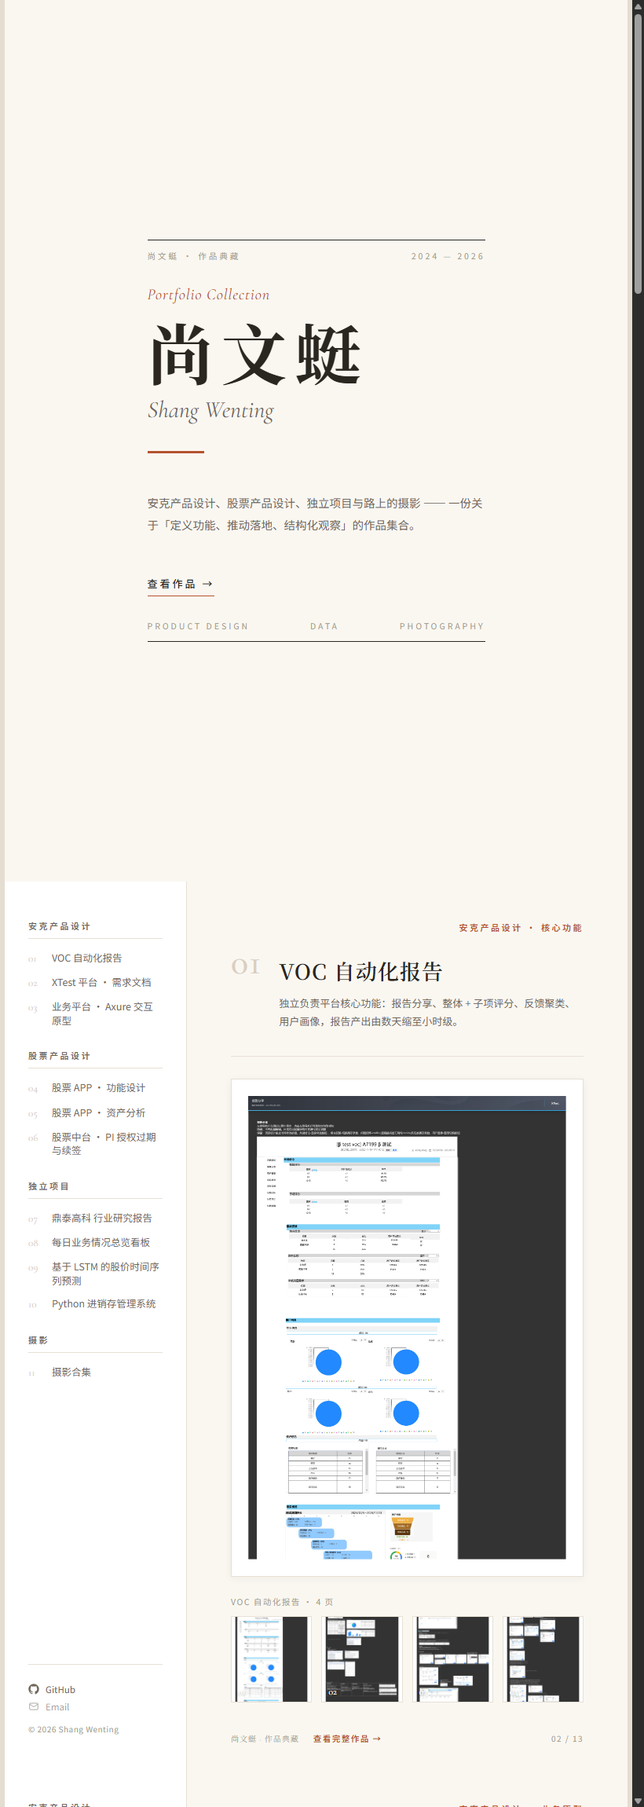
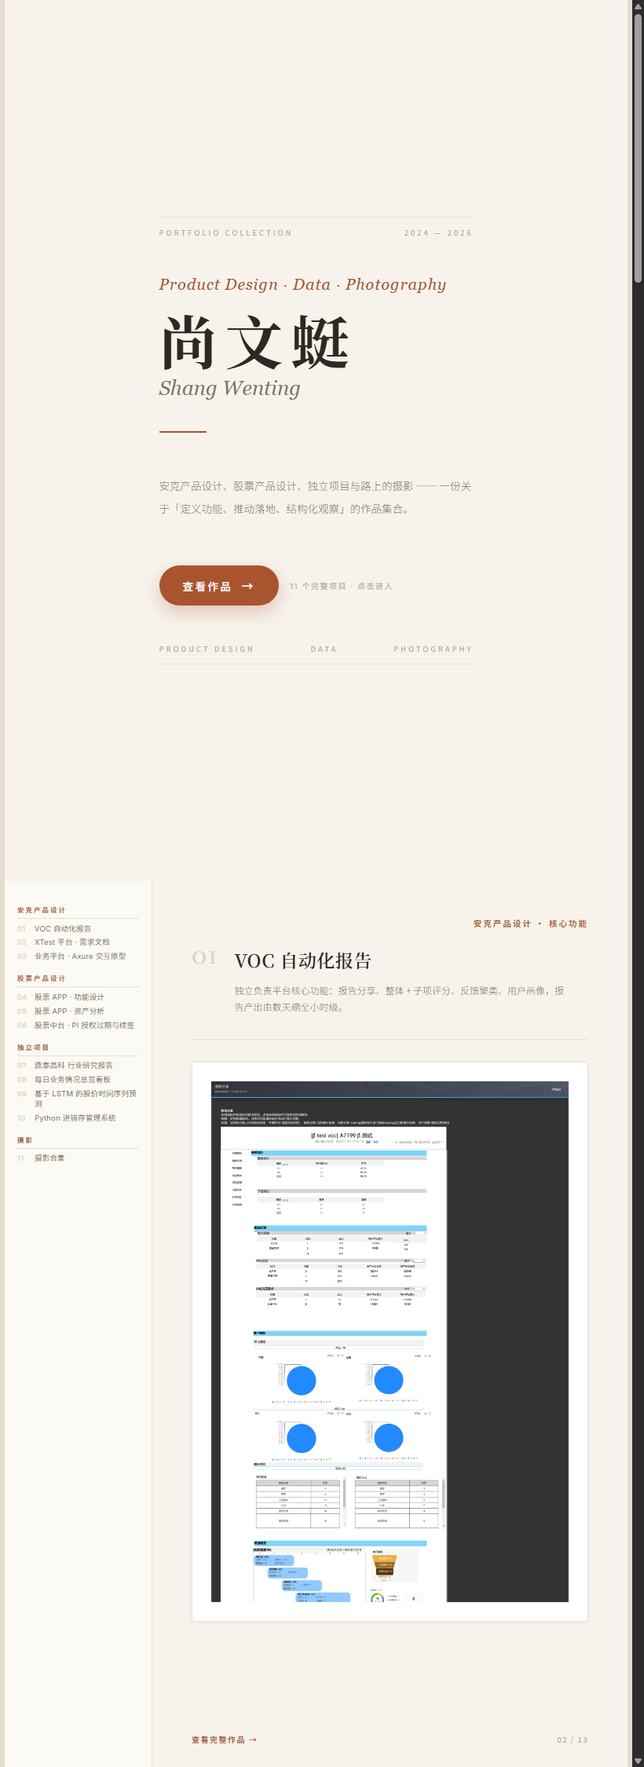
design: 导航字体换 Inter 无衬线、移除社交图标、封面舒展开并突出 CTA 胶囊按钮

diff --git a/_collection.html b/_collection.html
@@ -3,22 +3,23 @@
 <head>
 <meta charset="UTF-8" />
 <meta name="viewport" content="width=device-width, initial-scale=1.0" />
-<title>尚文蜓 · 作品典藏 | Portfolio Collection</title>
+<title>尚文蜓 · Portfolio Collection</title>
 <link rel="preconnect" href="https://fonts.googleapis.com" />
 <link rel="preconnect" href="https://fonts.gstatic.com" crossorigin />
-<link href="https://fonts.googleapis.com/css2?family=Cormorant+Garamond:ital,wght@0,400;0,500;0,600;1,400;1,500&family=Noto+Sans+SC:wght@300;400;500;600&family=Noto+Serif+SC:wght@400;500;600;700&display=swap" rel="stylesheet" />
+<link href="https://fonts.googleapis.com/css2?family=Cormorant+Garamond:ital,wght@0,400;0,500;0,600;1,400;1,500&family=Inter:wght@300;400;500;600&family=Noto+Sans+SC:wght@300;400;500;600&family=Noto+Serif+SC:wght@400;500;600;700&display=swap" rel="stylesheet" />
 <style>
   :root{
-    --paper:#faf7f1;
-    --paper-2:#ffffff;
-    --ink:#2a2620;
-    --ink-soft:#6f685c;
-    --ink-faint:#a89e8e;
-    --line:#e7e0d4;
-    --brand:#b5532e;
-    --faint:#d9cfbf;
+    --paper:#f7f3ec;
+    --paper-2:#fcfaf5;
+    --ink:#2c2823;
+    --ink-soft:#7c7567;
+    --ink-faint:#b0a694;
+    --line:#e7dfd1;
+    --brand:#a8542f;
+    --faint:#ddd3c2;
     --serif:"Noto Serif SC",Georgia,serif;
     --sans:"Noto Sans SC",system-ui,sans-serif;
+    --nav-sans:"Inter","Noto Sans SC",system-ui,sans-serif;
     --latin:"Cormorant Garamond",Georgia,serif;
   }
   *{box-sizing:border-box;}
@@ -36,97 +37,88 @@
   .page:last-child{ page-break-after:auto; }
   .page--cover{ align-items:center; justify-content:center; }
 
-  /* ---------- light sidebar ---------- */
+  /* ---------- light sidebar (narrow, refined) ---------- */
   .sidebar{
-    flex:0 0 232px; width:232px;
+    flex:0 0 188px; width:188px;
     background:var(--paper-2); color:var(--ink);
     border-right:1px solid var(--line);
-    padding:48px 30px 36px;
+    padding:30px 16px 18px;
     display:flex; flex-direction:column;
   }
-  .sidebar__brand{ margin-bottom:36px; }
-  .sidebar__logo{ font-family:var(--serif); font-size:25px; font-weight:600; letter-spacing:4px; color:var(--ink); }
-  .sidebar__role{ font-family:var(--latin); font-size:17px; font-style:italic; color:var(--brand); margin-top:6px; letter-spacing:.5px; }
-  .sidebar__subtitle{ font-size:10.5px; color:var(--ink-faint); margin-top:8px; letter-spacing:2px; }
-
   .sidebar__nav{ flex:1; }
-  .nav-group{ margin-bottom:22px; }
+  .nav-group{ margin-bottom:12px; }
   .nav-group__title{
-    font-size:11px; font-weight:600; letter-spacing:2.5px;
-    color:var(--ink-soft); padding-bottom:8px; margin-bottom:9px;
+    font-family:var(--nav-sans); font-size:8.5px; font-weight:600; letter-spacing:2px;
+    text-transform:uppercase; color:var(--brand); padding-bottom:5px; margin-bottom:4px;
     border-bottom:1px solid var(--line);
   }
   .nav-group__list{ list-style:none; margin:0; padding:0; }
   .nav-link{
-    display:flex; align-items:baseline; gap:10px;
-    padding:6px 0; text-decoration:none; color:var(--ink-soft);
-    font-size:12.5px; line-height:1.4; transition:color .2s;
+    display:flex; align-items:baseline; gap:7px;
+    padding:2.5px 0; text-decoration:none; color:var(--ink-soft);
+    font-family:var(--nav-sans); font-size:9.5px; font-weight:400; line-height:1.35; letter-spacing:.2px;
+    transition:color .2s, transform .2s;
   }
-  .nav-link:hover{ color:var(--brand); }
-  .nav-link__num{ font-family:var(--latin); font-size:13px; color:var(--faint); min-width:20px; }
-
-  .sidebar__footer{ margin-top:24px; padding-top:20px; border-top:1px solid var(--line); }
-  .sidebar__social{ display:flex; align-items:center; gap:8px; color:var(--ink-soft); font-size:11.5px; text-decoration:none; padding:3px 0; }
-  .sidebar__social:hover{ color:var(--brand); }
-  .sidebar__social.is-muted{ opacity:.6; }
-  .sidebar__copy{ font-size:10px; color:var(--ink-faint); margin-top:10px; letter-spacing:.5px; }
+  .nav-link:hover{ color:var(--brand); transform:translateX(2px); }
+  .nav-link__num{ font-family:var(--nav-sans); font-size:9px; color:var(--faint); min-width:15px; font-weight:500; letter-spacing:.5px; }
 
   /* ---------- content ---------- */
-  .content{ flex:1; padding:50px 56px 66px; position:relative; display:flex; flex-direction:column; }
+  .content{ flex:1; padding:46px 50px 60px; position:relative; display:flex; flex-direction:column; }
   .content__top{
-    display:flex; align-items:flex-start; gap:22px;
-    border-bottom:1px solid var(--line); padding-bottom:20px; margin-top:34px; margin-bottom:24px;
+    display:flex; align-items:flex-start; gap:20px;
+    border-bottom:1px solid var(--line); padding-bottom:18px; margin-top:30px; margin-bottom:26px;
   }
-  .content__topnum{ font-family:var(--latin); font-size:46px; font-weight:500; color:var(--faint); line-height:.8; letter-spacing:1px; }
-  .content__head{ flex:1; padding-top:4px; }
-  .work__tag{ position:absolute; top:50px; right:56px; text-align:right; font-size:11px; letter-spacing:2.5px; color:var(--brand); font-weight:600; }
-  .work__title{ font-family:var(--serif); font-size:27px; font-weight:600; margin:9px 0 9px; color:var(--ink); line-height:1.25; letter-spacing:1px; }
-  .work__sub{ font-size:13px; color:var(--ink-soft); line-height:1.75; max-width:430px; }
+  .content__topnum{ font-family:var(--latin); font-size:40px; font-weight:500; color:var(--faint); line-height:.8; letter-spacing:1px; }
+  .content__head{ flex:1; padding-top:2px; }
+  .work__tag{ position:absolute; top:46px; right:50px; text-align:right; font-size:10.5px; letter-spacing:2px; color:var(--brand); font-weight:600; }
+  .work__title{ font-family:var(--serif); font-size:23px; font-weight:600; margin:8px 0 8px; color:var(--ink); line-height:1.3; letter-spacing:.5px; }
+  .work__sub{ font-size:12px; color:var(--ink-soft); line-height:1.8; max-width:420px; font-weight:300; }
 
-  .work__hero{ margin:4px 0 0; border:1px solid var(--line); background:var(--paper-2); overflow:hidden; box-shadow:0 2px 10px rgba(42,38,32,.05); }
+  .work__hero{ margin:2px 0 0; border:1px solid var(--line); background:var(--paper-2); overflow:hidden; box-shadow:0 1px 8px rgba(44,40,35,.05); }
   .work__hero img{ display:block; width:100%; height:auto; }
 
-  .page-strip{ margin-top:24px; }
-  .page-strip__label{ font-size:10.5px; letter-spacing:1.5px; color:var(--ink-faint); margin-bottom:11px; }
-  .page-strip__grid{ display:grid; grid-template-columns:repeat(4,1fr); gap:12px; }
-  .page-strip__item{ position:relative; border:1px solid var(--line); background:var(--paper-2); overflow:hidden; }
-  .page-strip__item img{ display:block; width:100%; height:108px; object-fit:cover; }
-  .page-strip__item .ps-num{ position:absolute; left:8px; bottom:6px; font-family:var(--latin); font-size:12px; color:#fff; text-shadow:0 1px 3px rgba(0,0,0,.5); }
-
   /* ---------- photography ---------- */
-  .photo-topnum{ font-family:var(--latin); font-size:46px; font-weight:500; color:var(--faint); line-height:.8; }
-  .photo-title{ font-family:var(--serif); font-size:27px; font-weight:600; margin:9px 0 9px; letter-spacing:1px; }
-  .photo-caption{ font-size:14px; color:var(--ink-soft); line-height:1.8; max-width:450px; margin-bottom:22px; }
-  .photo-feature{ border:1px solid var(--line); overflow:hidden; margin-bottom:18px; background:var(--paper-2); box-shadow:0 2px 10px rgba(42,38,32,.05); }
-  .photo-feature img{ display:block; width:100%; height:438px; object-fit:cover; }
+  .photo-topnum{ font-family:var(--latin); font-size:40px; font-weight:500; color:var(--faint); line-height:.8; }
+  .photo-title{ font-family:var(--serif); font-size:23px; font-weight:600; margin:8px 0 8px; letter-spacing:.5px; }
+  .photo-caption{ font-size:12.5px; color:var(--ink-soft); line-height:1.85; max-width:440px; margin-bottom:22px; font-weight:300; }
+  .photo-feature{ border:1px solid var(--line); overflow:hidden; margin-bottom:16px; background:var(--paper-2); box-shadow:0 1px 8px rgba(44,40,35,.05); }
+  .photo-feature img{ display:block; width:100%; height:400px; object-fit:cover; }
   .photo-grid{ display:grid; grid-template-columns:repeat(3,1fr); gap:12px; }
   .photo-grid figure{ margin:0; border:1px solid var(--line); overflow:hidden; background:var(--paper-2); }
-  .photo-grid img{ display:block; width:100%; height:124px; object-fit:cover; }
-  .photo-grid figcaption{ font-size:10px; color:var(--ink-faint); padding:7px 9px; letter-spacing:.5px; }
+  .photo-grid img{ display:block; width:100%; height:118px; object-fit:cover; }
+  .photo-grid figcaption{ font-size:9.5px; color:var(--ink-faint); padding:6px 8px; letter-spacing:.4px; }
 
   /* ---------- cover (editorial) ---------- */
-  .cover{ padding:64px 70px; display:flex; flex-direction:column; justify-content:space-between; align-items:stretch; text-align:left; }
-  .cover__toprule{ display:flex; justify-content:space-between; align-items:center; font-size:10.5px; letter-spacing:3px; color:var(--ink-faint); border-top:1px solid var(--ink); padding-top:12px; }
-  .cover__mid{ flex:1; display:flex; flex-direction:column; justify-content:center; padding:30px 0; }
+  .cover{ padding:72px 68px; display:flex; flex-direction:column; justify-content:space-between; align-items:stretch; text-align:left; }
+  .cover__toprule{ display:flex; justify-content:space-between; align-items:center; font-size:9.5px; letter-spacing:3px; color:var(--ink-faint); border-top:1px solid var(--line); padding-top:12px; }
+  .cover__mid{ flex:1; display:flex; flex-direction:column; justify-content:center; padding:48px 0; }
   .cover__eyebrow{ font-family:var(--latin); font-style:italic; font-size:20px; color:var(--brand); letter-spacing:1px; }
-  .cover__title{ font-family:var(--serif); font-size:84px; font-weight:700; margin:18px 0 14px; letter-spacing:10px; line-height:1; }
-  .cover__title-en{ font-family:var(--latin); font-size:30px; font-style:italic; color:var(--ink-soft); }
-  .cover__rule{ width:72px; height:3px; background:var(--brand); margin:34px 0; }
-  .cover__lead{ font-size:14.5px; color:var(--ink-soft); line-height:1.95; max-width:430px; text-wrap:pretty; }
-  .cover__link{ display:inline-flex; align-items:center; gap:10px; margin-top:36px; font-size:13px; letter-spacing:3px; color:var(--ink); text-decoration:none; font-weight:500; border-bottom:1.5px solid var(--brand); padding-bottom:6px; width:fit-content; }
-  .cover__link:hover{ color:var(--brand); }
-  .cover__botrule{ display:flex; justify-content:space-between; align-items:center; font-size:10.5px; letter-spacing:3px; color:var(--ink-faint); border-bottom:1px solid var(--ink); padding-bottom:12px; }
+  .cover__title{ font-family:var(--serif); font-size:74px; font-weight:700; margin:22px 0 10px; letter-spacing:10px; line-height:1; }
+  .cover__title-en{ font-family:var(--latin); font-size:26px; font-style:italic; color:var(--ink-soft); }
+  .cover__rule{ width:60px; height:2px; background:var(--brand); margin:40px 0; }
+  .cover__lead{ font-size:13.5px; color:var(--ink-soft); line-height:2.1; max-width:400px; font-weight:300; text-wrap:pretty; }
+  .cover__cta{ display:flex; align-items:center; gap:14px; margin-top:46px; }
+  .cover__link{
+    display:inline-flex; align-items:center; gap:11px;
+    font-family:var(--nav-sans); font-size:13.5px; letter-spacing:2.5px; color:#fff;
+    background:var(--brand); text-decoration:none; font-weight:500;
+    padding:15px 30px; border-radius:40px; width:fit-content;
+    box-shadow:0 8px 22px rgba(168,84,47,.30); transition:transform .22s ease, box-shadow .22s ease, background .22s ease;
+  }
+  .cover__link:hover{ background:#934526; transform:translateY(-2px); box-shadow:0 12px 28px rgba(168,84,47,.40); }
+  .cover__link .arrow{ transition:transform .22s ease; font-size:15px; }
+  .cover__link:hover .arrow{ transform:translateX(5px); }
+  .cover__hint{ font-family:var(--nav-sans); font-size:10px; letter-spacing:1.5px; color:var(--ink-faint); }
+  .cover__botrule{ display:flex; justify-content:space-between; align-items:center; font-size:9.5px; letter-spacing:3px; color:var(--ink-faint); border-bottom:1px solid var(--line); padding-bottom:12px; }
 
   /* ---------- footer ---------- */
   .page__footer{
-    position:absolute; left:0; right:0; bottom:24px;
+    position:absolute; left:0; right:0; bottom:22px;
     display:flex; align-items:center; justify-content:space-between;
-    padding:0 56px;
-    font-size:10px; color:var(--ink-faint); letter-spacing:1.5px;
+    padding:0 50px;
+    font-size:9.5px; color:var(--ink-faint); letter-spacing:1.5px;
   }
-  .page__footer .pf-left{ display:flex; align-items:center; gap:18px; }
-  .page__footer .pf-name{ font-family:var(--latin); letter-spacing:1px; }
-  .page__footer .pf-link{ color:var(--brand); text-decoration:none; font-size:10.5px; letter-spacing:1.5px; font-weight:600; }
+  .page__footer .pf-link{ color:var(--brand); text-decoration:none; font-size:10px; letter-spacing:1.5px; font-weight:600; }
   .page__footer .pf-link:hover{ text-decoration:underline; }
 </style>
 </head>
@@ -168,17 +160,6 @@
         </ul>
       </div>
     </nav>
-    <div class="sidebar__footer">
-      <a class="sidebar__social" href="https://github.com/trinitytingchuan-alt" target="_blank" rel="noopener">
-        <svg width="14" height="14" viewBox="0 0 24 24" fill="currentColor"><path d="M12 .5C5.65.5.5 5.65.5 12c0 5.08 3.29 9.39 7.86 10.91.58.1.79-.25.79-.56v-2.04c-3.2.69-3.87-1.36-3.87-1.36-.52-1.33-1.27-1.68-1.27-1.68-1.04-.71.08-.7.08-.7 1.15.08 1.76 1.18 1.76 1.18 1.02 1.75 2.68 1.24 3.34.95.1-.74.4-1.24.73-1.53-2.55-.29-5.23-1.27-5.23-5.66 0-1.25.45-2.27 1.18-3.07-.12-.29-.51-1.46.11-3.05 0 0 .96-.31 3.15 1.17.91-.25 1.89-.38 2.86-.39.97.01 1.95.14 2.86.39 2.18-1.48 3.14-1.17 3.14-1.17.62 1.59.23 2.76.11 3.05.73.8 1.18 1.82 1.18 3.07 0 4.4-2.69 5.36-5.25 5.65.41.36.78 1.07.78 2.16v3.2c0 .31.21.67.8.55C20.21 21.39 23.5 17.07 23.5 12 23.5 5.65 18.35.5 12 .5z"/></svg>
-        GitHub
-      </a>
-      <span class="sidebar__social is-muted">
-        <svg width="14" height="14" viewBox="0 0 24 24" fill="none" stroke="currentColor" stroke-width="1.6"><rect x="3" y="5" width="18" height="14" rx="1.5"/><path d="m3 7 9 6 9-6"/></svg>
-        Email
-      </span>
-      <div class="sidebar__copy">© 2026 Shang Wenting</div>
-    </div>
   </div>
 </div>
 
@@ -187,14 +168,17 @@
   <!-- = our cover goes in a full page -->
   <section class="page page--cover">
     <div class="cover">
-      <div class="cover__toprule"><span>尚文蜓 · 作品典藏</span><span>2024 — 2026</span></div>
+      <div class="cover__toprule"><span>PORTFOLIO COLLECTION</span><span>2024 — 2026</span></div>
       <div class="cover__mid">
-        <div class="cover__eyebrow">Portfolio Collection</div>
+        <div class="cover__eyebrow">Product Design · Data · Photography</div>
         <div class="cover__title">尚文蜓</div>
         <div class="cover__title-en">Shang Wenting</div>
         <div class="cover__rule"></div>
         <p class="cover__lead">安克产品设计、股票产品设计、独立项目与路上的摄影 —— 一份关于「定义功能、推动落地、结构化观察」的作品集合。</p>
-        <a class="cover__link" href="#p-voc">查看作品 →</a>
+        <div class="cover__cta">
+          <a class="cover__link" href="#p-voc">查看作品 <span class="arrow">→</span></a>
+          <span class="cover__hint">11 个完整项目 · 点击进入</span>
+        </div>
       </div>
       <div class="cover__botrule"><span>PRODUCT DESIGN</span><span>DATA</span><span>PHOTOGRAPHY</span></div>
     </div>
@@ -212,16 +196,7 @@
         </div>
       </div>
       <figure class="work__hero"><img src="assets/pdf_hi/voc_p1.png" alt="VOC 自动化报告" /></figure>
-      <div class="page-strip">
-        <div class="page-strip__label">VOC 自动化报告 · 4 页</div>
-        <div class="page-strip__grid">
-          <div class="page-strip__item"><img src="assets/pdf_hi/voc_p1.png" alt="v1" /><span class="ps-num">01</span></div>
-          <div class="page-strip__item"><img src="assets/pdf_hi/voc_p2.png" alt="v2" /><span class="ps-num">02</span></div>
-          <div class="page-strip__item"><img src="assets/pdf_hi/voc_p3.png" alt="v3" /><span class="ps-num">03</span></div>
-          <div class="page-strip__item"><img src="assets/pdf_hi/voc_p4.png" alt="v4" /><span class="ps-num">04</span></div>
-        </div>
-      </div>
-      <div class="page__footer"><span class="pf-left"><span class="pf-name">尚文蜓 · 作品典藏</span><a class="pf-link" href="https://github.com/trinitytingchuan-alt" target="_blank" rel="noopener">查看完整作品 →</a></span><span class="pg">02 / 13</span></div>
+      <div class="page__footer"><a class="pf-link" href="https://github.com/trinitytingchuan-alt" target="_blank" rel="noopener">查看完整作品 →</a><span class="pg">02 / 13</span></div>
     </div>
   </section>
 
@@ -237,14 +212,7 @@
         </div>
       </div>
       <figure class="work__hero"><img src="assets/pdf_hi/ankerx_p1.png" alt="XTest 需求文档" /></figure>
-      <div class="page-strip">
-        <div class="page-strip__label">需求文档 · 2 页</div>
-        <div class="page-strip__grid">
-          <div class="page-strip__item"><img src="assets/pdf_hi/ankerx_p1.png" alt="x1" /><span class="ps-num">01</span></div>
-          <div class="page-strip__item"><img src="assets/pdf_hi/ankerx_p2.png" alt="x2" /><span class="ps-num">02</span></div>
-        </div>
-      </div>
-      <div class="page__footer"><span class="pf-left"><span class="pf-name">尚文蜓 · 作品典藏</span><a class="pf-link" href="https://github.com/trinitytingchuan-alt" target="_blank" rel="noopener">查看完整作品 →</a></span><span class="pg">03 / 13</span></div>
+      <div class="page__footer"><a class="pf-link" href="https://github.com/trinitytingchuan-alt" target="_blank" rel="noopener">查看完整作品 →</a><span class="pg">03 / 13</span></div>
     </div>
   </section>
 
@@ -260,14 +228,7 @@
         </div>
       </div>
       <figure class="work__hero"><img src="assets/docx_images/wk_018.png" alt="Axure 设备寄送流程原型" /></figure>
-      <div class="page-strip">
-        <div class="page-strip__label">Axure 原型 · 关键页面</div>
-        <div class="page-strip__grid">
-          <div class="page-strip__item"><img src="assets/docx_images/wk_018.png" alt="a1" /><span class="ps-num">01</span></div>
-          <div class="page-strip__item"><img src="assets/docx_images/wk_017.png" alt="a2" /><span class="ps-num">02</span></div>
-        </div>
-      </div>
-      <div class="page__footer"><span class="pf-left"><span class="pf-name">尚文蜓 · 作品典藏</span><a class="pf-link" href="https://github.com/trinitytingchuan-alt" target="_blank" rel="noopener">查看完整作品 →</a></span><span class="pg">04 / 13</span></div>
+      <div class="page__footer"><a class="pf-link" href="https://github.com/trinitytingchuan-alt" target="_blank" rel="noopener">查看完整作品 →</a><span class="pg">04 / 13</span></div>
     </div>
   </section>
 
@@ -283,15 +244,7 @@
         </div>
       </div>
       <figure class="work__hero"><img src="assets/pdf_hi/light_p1.png" alt="股票 APP 功能设计" /></figure>
-      <div class="page-strip">
-        <div class="page-strip__label">功能设计稿 · 3 页</div>
-        <div class="page-strip__grid">
-          <div class="page-strip__item"><img src="assets/pdf_hi/light_p1.png" alt="l1" /><span class="ps-num">01</span></div>
-          <div class="page-strip__item"><img src="assets/pdf_hi/light_p2.png" alt="l2" /><span class="ps-num">02</span></div>
-          <div class="page-strip__item"><img src="assets/pdf_hi/light_p3.png" alt="l3" /><span class="ps-num">03</span></div>
-        </div>
-      </div>
-      <div class="page__footer"><span class="pf-left"><span class="pf-name">尚文蜓 · 作品典藏</span><a class="pf-link" href="https://github.com/trinitytingchuan-alt" target="_blank" rel="noopener">查看完整作品 →</a></span><span class="pg">05 / 13</span></div>
+      <div class="page__footer"><a class="pf-link" href="https://github.com/trinitytingchuan-alt" target="_blank" rel="noopener">查看完整作品 →</a><span class="pg">05 / 13</span></div>
     </div>
   </section>
 
@@ -307,7 +260,7 @@
         </div>
       </div>
       <figure class="work__hero"><img src="assets/pdf_hi/asset_p1.png" alt="股票 APP 资产分析" /></figure>
-      <div class="page__footer"><span class="pf-left"><span class="pf-name">尚文蜓 · 作品典藏</span><a class="pf-link" href="https://github.com/trinitytingchuan-alt" target="_blank" rel="noopener">查看完整作品 →</a></span><span class="pg">06 / 13</span></div>
+      <div class="page__footer"><a class="pf-link" href="https://github.com/trinitytingchuan-alt" target="_blank" rel="noopener">查看完整作品 →</a><span class="pg">06 / 13</span></div>
     </div>
   </section>
 
@@ -323,14 +276,7 @@
         </div>
       </div>
       <figure class="work__hero"><img src="assets/pdf_hi/pi_p1.png" alt="股票中台 PI 授权过期" /></figure>
-      <div class="page-strip">
-        <div class="page-strip__label">PI 授权续签 · 2 页</div>
-        <div class="page-strip__grid">
-          <div class="page-strip__item"><img src="assets/pdf_hi/pi_p1.png" alt="p1" /><span class="ps-num">01</span></div>
-          <div class="page-strip__item"><img src="assets/pdf_hi/pi_p2.png" alt="p2" /><span class="ps-num">02</span></div>
-        </div>
-      </div>
-      <div class="page__footer"><span class="pf-left"><span class="pf-name">尚文蜓 · 作品典藏</span><a class="pf-link" href="https://github.com/trinitytingchuan-alt" target="_blank" rel="noopener">查看完整作品 →</a></span><span class="pg">07 / 13</span></div>
+      <div class="page__footer"><a class="pf-link" href="https://github.com/trinitytingchuan-alt" target="_blank" rel="noopener">查看完整作品 →</a><span class="pg">07 / 13</span></div>
     </div>
   </section>
 
@@ -346,16 +292,7 @@
         </div>
       </div>
       <figure class="work__hero"><img src="assets/pdf_pages/guolian_p1.png" alt="鼎泰高科深度研究" /></figure>
-      <div class="page-strip">
-        <div class="page-strip__label">研究报告 · 完整 24 页</div>
-        <div class="page-strip__grid">
-          <div class="page-strip__item"><img src="assets/pdf_pages/guolian_p1.png" alt="g1" /><span class="ps-num">01</span></div>
-          <div class="page-strip__item"><img src="assets/pdf_pages/guolian_p8.png" alt="g8" /><span class="ps-num">08</span></div>
-          <div class="page-strip__item"><img src="assets/pdf_pages/guolian_p16.png" alt="g16" /><span class="ps-num">16</span></div>
-          <div class="page-strip__item"><img src="assets/pdf_pages/guolian_p24.png" alt="g24" /><span class="ps-num">24</span></div>
-        </div>
-      </div>
-      <div class="page__footer"><span class="pf-left"><span class="pf-name">尚文蜓 · 作品典藏</span><a class="pf-link" href="https://github.com/trinitytingchuan-alt" target="_blank" rel="noopener">查看完整作品 →</a></span><span class="pg">08 / 13</span></div>
+      <div class="page__footer"><a class="pf-link" href="https://github.com/trinitytingchuan-alt" target="_blank" rel="noopener">查看完整作品 →</a><span class="pg">08 / 13</span></div>
     </div>
   </section>
 
@@ -371,7 +308,7 @@
         </div>
       </div>
       <figure class="work__hero"><img src="assets/portfolio_pngs/tableau_dashboard.jpg" alt="Tableau 业务看板" /></figure>
-      <div class="page__footer"><span class="pf-left"><span class="pf-name">尚文蜓 · 作品典藏</span><a class="pf-link" href="https://github.com/trinitytingchuan-alt" target="_blank" rel="noopener">查看完整作品 →</a></span><span class="pg">09 / 13</span></div>
+      <div class="page__footer"><a class="pf-link" href="https://github.com/trinitytingchuan-alt" target="_blank" rel="noopener">查看完整作品 →</a><span class="pg">09 / 13</span></div>
     </div>
   </section>
 
@@ -387,7 +324,7 @@
         </div>
       </div>
       <figure class="work__hero"><img src="assets/portfolio_pngs/导出页面自 105尚文蜓202330181270课程论文.png" alt="LSTM 股价预测课程论文" /></figure>
-      <div class="page__footer"><span class="pf-left"><span class="pf-name">尚文蜓 · 作品典藏</span><a class="pf-link" href="https://github.com/trinitytingchuan-alt" target="_blank" rel="noopener">查看完整作品 →</a></span><span class="pg">10 / 13</span></div>
+      <div class="page__footer"><a class="pf-link" href="https://github.com/trinitytingchuan-alt" target="_blank" rel="noopener">查看完整作品 →</a><span class="pg">10 / 13</span></div>
     </div>
   </section>
 
@@ -403,7 +340,7 @@
         </div>
       </div>
       <figure class="work__hero"><img src="assets/portfolio_pngs/20240725121334.png" alt="Python 进销存管理系统" /></figure>
-      <div class="page__footer"><span class="pf-left"><span class="pf-name">尚文蜓 · 作品典藏</span><a class="pf-link" href="https://github.com/trinitytingchuan-alt" target="_blank" rel="noopener">查看完整作品 →</a></span><span class="pg">11 / 13</span></div>
+      <div class="page__footer"><a class="pf-link" href="https://github.com/trinitytingchuan-alt" target="_blank" rel="noopener">查看完整作品 →</a><span class="pg">11 / 13</span></div>
     </div>
   </section>
 
@@ -427,7 +364,7 @@
         <figure><img src="assets/photo/微信图片_20260805194602_29_5.jpg" alt="塔影" /><figcaption>黔东南 · 黄岗侗寨</figcaption></figure>
         <figure><img src="assets/photo/微信图片_20260805194602_33_5.jpg" alt="湖光" /><figcaption>四川 · 九寨沟</figcaption></figure>
       </div>
-      <div class="page__footer"><span class="pf-left"><span class="pf-name">尚文蜓 · 作品典藏</span><a class="pf-link" href="https://github.com/trinitytingchuan-alt" target="_blank" rel="noopener">查看完整作品 →</a></span><span class="pg">12 / 13</span></div>
+      <div class="page__footer"><a class="pf-link" href="https://github.com/trinitytingchuan-alt" target="_blank" rel="noopener">查看完整作品 →</a><span class="pg">12 / 13</span></div>
     </div>
   </section>
 
@@ -451,7 +388,7 @@
         <figure><img src="assets/photo/photo_doc_3.jpg" alt="穹丘" /><figcaption>乌兰察布 · 火山</figcaption></figure>
         <figure><img src="assets/photo/photo_doc_4.jpg" alt="云湖" /><figcaption>新疆 · 赛里木湖</figcaption></figure>
       </div>
-      <div class="page__footer"><span class="pf-left"><span class="pf-name">尚文蜓 · 作品典藏</span><a class="pf-link" href="https://github.com/trinitytingchuan-alt" target="_blank" rel="noopener">查看完整作品 →</a></span><span class="pg">13 / 13</span></div>
+      <div class="page__footer"><a class="pf-link" href="https://github.com/trinitytingchuan-alt" target="_blank" rel="noopener">查看完整作品 →</a><span class="pg">13 / 13</span></div>
     </div>
   </section>
 
